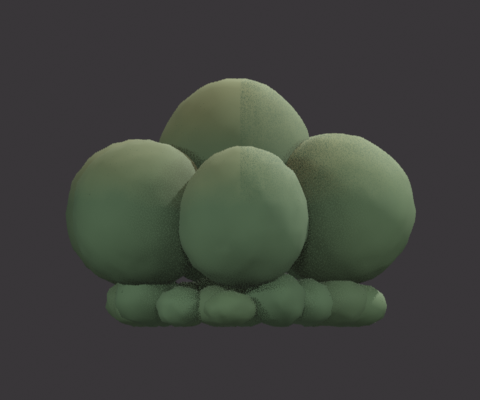
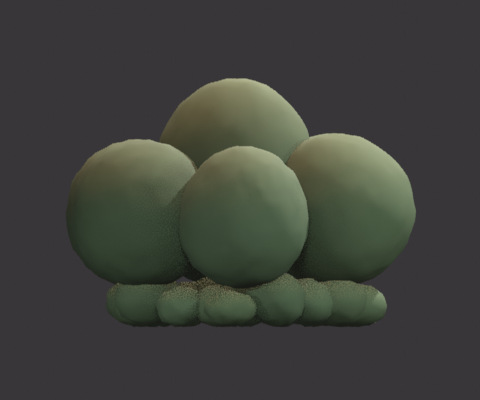
dashboard update 2026-09-15T19:42:38Z

diff --git a/index.html b/index.html
@@ -117,8 +117,8 @@ border:1px solid var(--border);border-radius:8px;padding:8px;font-size:12px;disp
 </style></head>
 <body><div class="wrap">
 <header class="top"><div><h1>🏙 City-Block Asset Pipeline</h1>
-<div class="sub">Live observability &mdash; generated 2026-09-15 12:37 PDT</div></div></header>
-<div class="pipes"><div class="pipe"><div class="name"><span class="dot live"></span>3D modeling pipeline &mdash; RUNNING</div><div class="kv">worker <b>mtick-20260915-1917</b></div><div class="kv">heartbeat <b>Sep 15, 12:37</b></div><div class="kv">working on <b>14-bush</b> &middot; phase <b>judging</b> &middot; rev <b>bs3</b></div><div class="kv">bs3 8/8 rendered + GLB exported; 3 fresh judges re-dispatched</div></div><div class="pipe"><div class="name"><span class="dot live"></span>Schematic pipeline &mdash; RUNNING</div><div class="kv">worker <b>stick-20260915-1919</b></div><div class="kv">heartbeat <b>Sep 15, 12:35</b></div><div class="kv">working on <b>city-center-v1</b> &middot; phase <b>judging</b> &middot; rev <b>48-man-reading-on-bench</b></div><div class="kv">chain 3/8 frozen. chain-right-r3 surgical fix done (bench 990px vs 963, +2.8%). Fresh chain judge dispatched for RIGHT view 4/8.</div></div></div>
+<div class="sub">Live observability &mdash; generated 2026-09-15 12:42 PDT</div></div></header>
+<div class="pipes"><div class="pipe"><div class="name"><span class="dot live"></span>3D modeling pipeline &mdash; RUNNING</div><div class="kv">worker <b>mtick-20260915-1917</b></div><div class="kv">heartbeat <b>Sep 15, 12:41</b></div><div class="kv">working on <b>14-bush</b> &middot; phase <b>judging</b> &middot; rev <b>bs3</b></div><div class="kv">structure PASS 9.25, fidelity PASS 9.25; materials judge pending</div></div><div class="pipe"><div class="name"><span class="dot live"></span>Schematic pipeline &mdash; RUNNING</div><div class="kv">worker <b>stick-20260915-1919</b></div><div class="kv">heartbeat <b>Sep 15, 12:41</b></div><div class="kv">working on <b>city-center-v1</b> &middot; phase <b>judging</b> &middot; rev <b>48-man-reading-on-bench</b></div><div class="kv">chain 3/8 frozen. r3 FAIL (seam dark streak). r4 2nd surgical pass: multi-res seam blend, numeric gate passes (seam smoother than natural variation). Fresh chain judge dispatched for chain-right-r4.</div></div></div>
 <div class="fbbox">
 <button class="btn" id="copyFeedback">📋 Copy feedback</button>
 <span class="count" id="fbCount">0</span>
@@ -127,7 +127,7 @@ Copy them to your clipboard, then paste into chat with Kit &mdash; each note bec
 </div>
 <textarea id="dumpbox" readonly></textarea>
 <h2>Assets <span class="sub">48 entries</span></h2>
-<div id="entries"><a class="entry" href="entries/01-cafe-building.html"><img loading="lazy" src="assets/models/01-cafe-building/renders/bs11/thumb_front.jpg" alt=""><div class="info"><div class="id">01-cafe-building</div><div class="meta">Café Building</div><div class="meta">schematics avg 9.38 · rev bs11 · 01-cafe-building.glb · upd Sep 13, 13:43</div><div class="stages"><span class="stage ok">Schematics ✓</span><span class="stage ok">3D modeling ✓</span><span class="stage ok">Accepted ✓</span></div></div></a><a class="entry" href="entries/02-apartment-building.html"><img loading="lazy" src="assets/models/02-apartment-building/renders/bs15/thumb_front.jpg" alt=""><div class="info"><div class="id">02-apartment-building</div><div class="meta">Apartment Building</div><div class="meta">schematics avg 9.33 · rev bs15 · 02-apartment-building.glb · upd Sep 13, 23:49</div><div class="stages"><span class="stage ok">Schematics ✓</span><span class="stage work">3D modeling · 15 revs (complete)</span><span class="stage work">Felix review pending</span></div></div></a><a class="entry" href="entries/03-flower-shop.html"><img loading="lazy" src="assets/models/03-flower-shop/renders/bs22/thumb_front.jpg" alt=""><div class="info"><div class="id">03-flower-shop</div><div class="meta">Flower Shop</div><div class="meta">schematics avg 9.31 · rev bs22 · 03-flower-shop.glb · upd Sep 14, 04:02</div><div class="stages"><span class="stage ok">Schematics ✓</span><span class="stage work">3D modeling · 22 revs (complete)</span><span class="stage work">Felix review pending</span></div></div></a><a class="entry" href="entries/04-grocery-store.html"><img loading="lazy" src="assets/models/04-grocery-store/renders/bs7/thumb_front.jpg" alt=""><div class="info"><div class="id">04-grocery-store</div><div class="meta">Grocery Store</div><div class="meta">schematics avg 9.37 · rev bs7 · 04-grocery-store.glb · upd Sep 14, 07:21</div><div class="stages"><span class="stage ok">Schematics ✓</span><span class="stage ok">3D modeling ✓</span><span class="stage ok">Accepted ✓</span></div></div></a><a class="entry" href="entries/05-sedan-car.html"><img loading="lazy" src="assets/models/05-sedan-car/renders/bs20/thumb_front.jpg" alt=""><div class="info"><div class="id">05-sedan-car</div><div class="meta">Sedan Car</div><div class="meta">schematics avg 9.34 · rev bs20 · 05-sedan-car.glb · upd Sep 14, 21:15</div><div class="stages"><span class="stage ok">Schematics ✓</span><span class="stage ok">3D modeling ✓</span><span class="stage ok">Accepted ✓</span></div></div></a><a class="entry" href="entries/06-van.html"><img loading="lazy" src="assets/models/06-van/renders/bs4/thumb_front.jpg" alt=""><div class="info"><div class="id">06-van</div><div class="meta">Van</div><div class="meta">schematics avg 9.30 · rev bs4 · 06-van.glb · upd Sep 14, 17:16</div><div class="stages"><span class="stage ok">Schematics ✓</span><span class="stage ok">3D modeling ✓</span><span class="stage ok">Accepted ✓</span></div></div></a><a class="entry" href="entries/07-bicycle.html"><img loading="lazy" src="assets/models/07-bicycle/renders/bs7/thumb_front.jpg" alt=""><div class="info"><div class="id">07-bicycle</div><div class="meta">Bicycle</div><div class="meta">schematics avg 9.33 · rev bs7 · 07-bicycle.glb · upd Sep 14, 20:50</div><div class="stages"><span class="stage ok">Schematics ✓</span><span class="stage ok">3D modeling ✓</span><span class="stage ok">Accepted ✓</span></div></div></a><a class="entry" href="entries/08-kid-with-balloon.html"><img loading="lazy" src="assets/models/08-kid-with-balloon/renders/bs3/thumb_front.jpg" alt=""><div class="info"><div class="id">08-kid-with-balloon</div><div class="meta">Kid with Balloon</div><div class="meta">schematics avg 9.45 · rev bs3 · 08-kid-with-balloon.glb · upd Sep 14, 22:52</div><div class="stages"><span class="stage ok">Schematics ✓</span><span class="stage ok">3D modeling ✓</span><span class="stage ok">Accepted ✓</span></div></div></a><a class="entry" href="entries/09-dog-walker.html"><img loading="lazy" src="assets/models/09-dog-walker/renders/bs7/thumb_front.jpg" alt=""><div class="info"><div class="id">09-dog-walker</div><div class="meta">Dog Walker</div><div class="meta">schematics avg 9.24 · rev bs7 · 09-dog-walker.glb · upd Sep 15, 03:12</div><div class="stages"><span class="stage ok">Schematics ✓</span><span class="stage work">3D modeling · 7 revs (complete)</span><span class="stage work">Felix review pending</span></div></div></a><a class="entry" href="entries/10-cafe-patrons.html"><img loading="lazy" src="assets/models/10-cafe-patrons/renders/bs3/thumb_front.jpg" alt=""><div class="info"><div class="id">10-cafe-patrons</div><div class="meta">Cafe Patrons</div><div class="meta">schematics avg 9.16 · rev bs3 · 10-cafe-patrons.glb · upd Sep 15, 05:06</div><div class="stages"><span class="stage ok">Schematics ✓</span><span class="stage ok">3D modeling ✓</span><span class="stage ok">Accepted ✓</span></div></div></a><a class="entry" href="entries/11-shopper-with-bags.html"><img loading="lazy" src="assets/models/11-shopper-with-bags/renders/bs4/thumb_front.jpg" alt=""><div class="info"><div class="id">11-shopper-with-bags</div><div class="meta">Shopper with Bags</div><div class="meta">schematics avg 9.33 · rev bs4 · 11-shopper-with-bags.glb · upd Sep 15, 08:08</div><div class="stages"><span class="stage ok">Schematics ✓</span><span class="stage ok">3D modeling ✓</span><span class="stage ok">Accepted ✓</span></div></div></a><a class="entry" href="entries/12-big-puffy-tree.html"><img loading="lazy" src="assets/models/12-big-puffy-tree/renders/bs2/thumb_front.jpg" alt=""><div class="info"><div class="id">12-big-puffy-tree</div><div class="meta">Big Puffy Tree</div><div class="meta">schematics avg 9.34 · rev bs2 · 12-big-puffy-tree.glb · upd Sep 15, 09:46</div><div class="stages"><span class="stage ok">Schematics ✓</span><span class="stage ok">3D modeling ✓</span><span class="stage ok">Accepted ✓</span></div></div></a><a class="entry" href="entries/13-small-tree.html"><img loading="lazy" src="assets/models/13-small-tree/renders/bs11/thumb_front.jpg" alt=""><div class="info"><div class="id">13-small-tree</div><div class="meta">Small Tree</div><div class="meta">schematics avg 9.19 · rev bs11 · 13-small-tree.glb · upd Sep 15, 11:24</div><div class="stages"><span class="stage ok">Schematics ✓</span><span class="stage ok">3D modeling ✓</span><span class="stage ok">Accepted ✓</span></div></div></a><a class="entry" href="entries/14-bush.html"><img loading="lazy" src="assets/models/14-bush/renders/bs2/thumb_front.jpg" alt=""><div class="info"><div class="id">14-bush</div><div class="meta">Bush</div><div class="meta">schematics avg 9.28 · rev bs2 · 14-bush.glb · upd Sep 15, 12:37</div><div class="stages"><span class="stage ok">Schematics ✓</span><span class="stage work">3D modeling · 3 revs (judging)</span></div></div></a><a class="entry" href="entries/15-planter-tulips.html"><img loading="lazy" src="assets/schematics/15-planter-tulips/thumb_front.jpg" alt=""><div class="info"><div class="id">15-planter-tulips</div><div class="meta">Planter Tulips</div><div class="meta">schematics avg 9.42 · upd Sep 12, 20:09</div><div class="stages"><span class="stage ok">Schematics ✓</span><span class="stage idle">3D not started</span></div></div></a><a class="entry" href="entries/16-grass-patch.html"><img loading="lazy" src="assets/schematics/16-grass-patch/thumb_front.jpg" alt=""><div class="info"><div class="id">16-grass-patch</div><div class="meta">Grass Patch</div><div class="meta">schematics avg 9.14 · upd Sep 12, 21:07</div><div class="stages"><span class="stage ok">Schematics ✓</span><span class="stage idle">3D not started</span></div></div></a><a class="entry" href="entries/17-street-lamp.html"><img loading="lazy" src="assets/schematics/17-street-lamp/thumb_front.jpg" alt=""><div class="info"><div class="id">17-street-lamp</div><div class="meta">Street Lamp</div><div class="meta">schematics avg 9.45 · upd Sep 12, 19:09</div><div class="stages"><span class="stage ok">Schematics ✓</span><span class="stage idle">3D not started</span></div></div></a><a class="entry" href="entries/18-produce-crates.html"><img loading="lazy" src="assets/schematics/18-produce-crates/thumb_front.jpg" alt=""><div class="info"><div class="id">18-produce-crates</div><div class="meta">Produce Crates</div><div class="meta">schematics avg 9.35 · upd Sep 12, 19:27</div><div class="stages"><span class="stage ok">Schematics ✓</span><span class="stage idle">3D not started</span></div></div></a><a class="entry" href="entries/19-cafe-table-set.html"><img loading="lazy" src="assets/schematics/19-cafe-table-set/thumb_front.jpg" alt=""><div class="info"><div class="id">19-cafe-table-set</div><div class="meta">Café Table Set</div><div class="meta">schematics avg 9.23 · upd Sep 12, 19:43</div><div class="stages"><span class="stage ok">Schematics ✓</span><span class="stage idle">3D not started</span></div></div></a><a class="entry" href="entries/20-intersection.html"><img loading="lazy" src="assets/schematics/20-intersection/thumb_front.jpg" alt=""><div class="info"><div class="id">20-intersection</div><div class="meta">Intersection</div><div class="meta">schematics avg 9.43 · upd Sep 12, 19:12</div><div class="stages"><span class="stage ok">Schematics ✓</span><span class="stage idle">3D not started</span></div></div></a><a class="entry" href="entries/21-cobblestone-road.html"><img loading="lazy" src="assets/schematics/21-cobblestone-road/thumb_front.jpg" alt=""><div class="info"><div class="id">21-cobblestone-road</div><div class="meta">Cobblestone Road</div><div class="meta">schematics avg 9.34 · upd Sep 12, 19:26</div><div class="stages"><span class="stage ok">Schematics ✓</span><span class="stage idle">3D not started</span></div></div></a><a class="entry" href="entries/22-sidewalk-curb.html"><img loading="lazy" src="assets/schematics/22-sidewalk-curb/thumb_front.jpg" alt=""><div class="info"><div class="id">22-sidewalk-curb</div><div class="meta">Sidewalk Curb</div><div class="meta">schematics avg 9.35 · upd Sep 12, 20:36</div><div class="stages"><span class="stage ok">Schematics ✓</span><span class="stage idle">3D not started</span></div></div></a><a class="entry" href="entries/23-plinth-base.html"><img loading="lazy" src="assets/schematics/23-plinth-base/thumb_front.jpg" alt=""><div class="info"><div class="id">23-plinth-base</div><div class="meta">Plinth Base</div><div class="meta">schematics avg 9.36 · upd Sep 12, 20:37</div><div class="stages"><span class="stage ok">Schematics ✓</span><span class="stage idle">3D not started</span></div></div></a><a class="entry" href="entries/24-cobble-straight.html"><img loading="lazy" src="assets/schematics/24-cobble-straight/thumb_front.jpg" alt=""><div class="info"><div class="id">24-cobble-straight</div><div class="meta">Cobble Straight</div><div class="meta">schematics avg 9.51 · upd Sep 12, 22:01</div><div class="stages"><span class="stage ok">Schematics ✓</span><span class="stage idle">3D not started</span></div></div></a><a class="entry" href="entries/25-cobble-corner.html"><img loading="lazy" src="assets/schematics/25-cobble-corner/thumb_front.jpg" alt=""><div class="info"><div class="id">25-cobble-corner</div><div class="meta">Cobble Corner (90° Road Corner)</div><div class="meta">schematics avg 9.56 · upd Sep 12, 21:56</div><div class="stages"><span class="stage ok">Schematics ✓</span><span class="stage idle">3D not started</span></div></div></a><a class="entry" href="entries/26-cobble-t-junction.html"><img loading="lazy" src="assets/schematics/26-cobble-t-junction/thumb_front.jpg" alt=""><div class="info"><div class="id">26-cobble-t-junction</div><div class="meta">Cobble T-Junction</div><div class="meta">schematics avg 9.54 · upd Sep 12, 21:57</div><div class="stages"><span class="stage ok">Schematics ✓</span><span class="stage idle">3D not started</span></div></div></a><a class="entry" href="entries/27-cobble-end.html"><img loading="lazy" src="assets/schematics/27-cobble-end/thumb_front.jpg" alt=""><div class="info"><div class="id">27-cobble-end</div><div class="meta">Cobble End</div><div class="meta">schematics avg 9.44 · upd Sep 12, 21:59</div><div class="stages"><span class="stage ok">Schematics ✓</span><span class="stage idle">3D not started</span></div></div></a><a class="entry" href="entries/28-sidewalk-straight.html"><img loading="lazy" src="assets/schematics/28-sidewalk-straight/thumb_front.jpg" alt=""><div class="info"><div class="id">28-sidewalk-straight</div><div class="meta">Sidewalk Straight</div><div class="meta">schematics avg 9.57 · upd Sep 12, 21:20</div><div class="stages"><span class="stage ok">Schematics ✓</span><span class="stage idle">3D not started</span></div></div></a><a class="entry" href="entries/29-sidewalk-plain.html"><img loading="lazy" src="assets/schematics/29-sidewalk-plain/thumb_front.jpg" alt=""><div class="info"><div class="id">29-sidewalk-plain</div><div class="meta">Sidewalk Plain</div><div class="meta">schematics avg 9.37 · upd Sep 12, 21:17</div><div class="stages"><span class="stage ok">Schematics ✓</span><span class="stage idle">3D not started</span></div></div></a><a class="entry" href="entries/30-business-center-tower.html"><img loading="lazy" src="assets/schematics/30-business-center-tower/thumb_front.jpg" alt=""><div class="info"><div class="id">30-business-center-tower</div><div class="meta">Business Center Tower</div><div class="meta">schematics avg 9.46 · upd Sep 13, 23:28</div><div class="stages"><span class="stage ok">Schematics ✓</span><span class="stage idle">3D not started</span></div></div></a><a class="entry" href="entries/31-office-tower.html"><img loading="lazy" src="assets/schematics/31-office-tower/thumb_front.jpg" alt=""><div class="info"><div class="id">31-office-tower</div><div class="meta">Office Tower</div><div class="meta">schematics avg 9.49 · upd Sep 14, 01:29</div><div class="stages"><span class="stage ok">Schematics ✓</span><span class="stage idle">3D not started</span></div></div></a><a class="entry" href="entries/32-offices-downtown.html"><img loading="lazy" src="assets/schematics/32-offices-downtown/thumb_front.jpg" alt=""><div class="info"><div class="id">32-offices-downtown</div><div class="meta">Offices Downtown</div><div class="meta">schematics avg 9.52 · upd Sep 14, 02:44</div><div class="stages"><span class="stage ok">Schematics ✓</span><span class="stage idle">3D not started</span></div></div></a><a class="entry" href="entries/33-hot-dog-stand.html"><img loading="lazy" src="assets/models/33-hot-dog-stand/renders/hd14/thumb_front.jpg" alt=""><div class="info"><div class="id">33-hot-dog-stand</div><div class="meta">Hot Dog Stand</div><div class="meta">schematics avg 9.47 · rev hd14 · 33-hot-dog-stand.glb · upd Sep 15, 07:11</div><div class="stages"><span class="stage ok">Schematics ✓</span><span class="stage work">3D modeling · 14 revs (complete)</span><span class="stage work">Felix review pending</span></div></div></a><a class="entry" href="entries/34-bus-stop-shelter.html"><img loading="lazy" src="assets/models/34-bus-stop-shelter/renders/bs6/thumb_front.jpg" alt=""><div class="info"><div class="id">34-bus-stop-shelter</div><div class="meta">Bus Stop Shelter</div><div class="meta">schematics avg 9.23 · rev bs6 · 34-bus-stop-shelter-bs6.glb · upd Sep 15, 08:54</div><div class="stages"><span class="stage ok">Schematics ✓</span><span class="stage work">3D modeling · 6 revs (complete)</span><span class="stage work">Felix review pending</span></div></div></a><a class="entry" href="entries/35-traffic-light.html"><img loading="lazy" src="assets/schematics/35-traffic-light/thumb_front.jpg" alt=""><div class="info"><div class="id">35-traffic-light</div><div class="meta">Traffic Light</div><div class="meta">schematics avg 9.63 · upd Sep 14, 14:16</div><div class="stages"><span class="stage ok">Schematics ✓</span><span class="stage idle">3D not started</span></div></div></a><a class="entry" href="entries/36-bus-stop-sign.html"><img loading="lazy" src="assets/schematics/36-bus-stop-sign/thumb_front.jpg" alt=""><div class="info"><div class="id">36-bus-stop-sign</div><div class="meta">Bus Stop Sign</div><div class="meta">schematics avg 9.66 · upd Sep 14, 18:03</div><div class="stages"><span class="stage ok">Schematics ✓</span><span class="stage idle">3D not started</span></div></div></a><a class="entry" href="entries/37-trash-bin.html"><img loading="lazy" src="assets/schematics/37-trash-bin/thumb_front.jpg" alt=""><div class="info"><div class="id">37-trash-bin</div><div class="meta">Trash Bin — Schematic Reference Set</div><div class="meta">schematics avg 9.41 · upd Sep 14, 15:06</div><div class="stages"><span class="stage ok">Schematics ✓</span><span class="stage idle">3D not started</span></div></div></a><a class="entry" href="entries/38-tree-planter-box.html"><img loading="lazy" src="assets/schematics/38-tree-planter-box/thumb_front.jpg" alt=""><div class="info"><div class="id">38-tree-planter-box</div><div class="meta">Tree Planter Box — Schematic Reference Set</div><div class="meta">schematics avg 9.35 · upd Sep 14, 20:27</div><div class="stages"><span class="stage ok">Schematics ✓</span><span class="stage idle">3D not started</span></div></div></a><a class="entry" href="entries/39-city-bus.html"><img loading="lazy" src="assets/schematics/39-city-bus/thumb_front.jpg" alt=""><div class="info"><div class="id">39-city-bus</div><div class="meta">City Bus — Schematic Reference Set</div><div class="meta">schematics avg 9.39 · upd Sep 14, 21:09</div><div class="stages"><span class="stage ok">Schematics ✓</span><span class="stage idle">3D not started</span></div></div></a><a class="entry" href="entries/40-scooter.html"><img loading="lazy" src="assets/schematics/40-scooter/thumb_front.jpg" alt=""><div class="info"><div class="id">40-scooter</div><div class="meta">Scooter — Schematic Reference Set</div><div class="meta">schematics avg 9.41 · upd Sep 14, 22:58</div><div class="stages"><span class="stage ok">Schematics ✓</span><span class="stage idle">3D not started</span></div></div></a><a class="entry" href="entries/41-businessman-with-briefcase.html"><img loading="lazy" src="assets/schematics/41-businessman-with-briefcase/thumb_front.jpg" alt=""><div class="info"><div class="id">41-businessman-with-briefcase</div><div class="meta">Businessman with Briefcase — Schematic Reference Set</div><div class="meta">schematics avg 9.22 · upd Sep 15, 00:02</div><div class="stages"><span class="stage ok">Schematics ✓</span><span class="stage idle">3D not started</span></div></div></a><a class="entry" href="entries/42-kid-with-backpack.html"><img loading="lazy" src="assets/schematics/42-kid-with-backpack/thumb_front.jpg" alt=""><div class="info"><div class="id">42-kid-with-backpack</div><div class="meta">Kid with Backpack — Schematic Reference Set</div><div class="meta">schematics avg 9.27 · upd Sep 15, 03:42</div><div class="stages"><span class="stage ok">Schematics ✓</span><span class="stage idle">3D not started</span></div></div></a><a class="entry" href="entries/43-man-with-stroller.html"><img loading="lazy" src="assets/schematics/43-man-with-stroller/thumb_front.jpg" alt=""><div class="info"><div class="id">43-man-with-stroller</div><div class="meta">Man with Stroller — Schematic Reference Set</div><div class="meta">schematics avg 9.19 · upd Sep 15, 03:35</div><div class="stages"><span class="stage ok">Schematics ✓</span><span class="stage idle">3D not started</span></div></div></a><a class="entry" href="entries/44-cyclist.html"><img loading="lazy" src="assets/schematics/44-cyclist/thumb_front.jpg" alt=""><div class="info"><div class="id">44-cyclist</div><div class="meta">Cyclist — Schematic Reference Set</div><div class="meta">schematics avg 9.41 · upd Sep 15, 09:05</div><div class="stages"><span class="stage ok">Schematics ✓</span><span class="stage idle">3D not started</span></div></div></a><a class="entry" href="entries/45-hot-dog-vendor.html"><img loading="lazy" src="assets/schematics/45-hot-dog-vendor/thumb_front.jpg" alt=""><div class="info"><div class="id">45-hot-dog-vendor</div><div class="meta">Hot Dog Vendor</div><div class="meta">schematics avg 9.37 · upd Sep 15, 07:23</div><div class="stages"><span class="stage ok">Schematics ✓</span><span class="stage idle">3D not started</span></div></div></a><a class="entry" href="entries/46-woman-walking-dog.html"><img loading="lazy" src="assets/schematics/46-woman-walking-dog/thumb_front.jpg" alt=""><div class="info"><div class="id">46-woman-walking-dog</div><div class="meta">Woman Walking Dog</div><div class="meta">schematics avg 9.42 · upd Sep 15, 11:39</div><div class="stages"><span class="stage ok">Schematics ✓</span><span class="stage idle">3D not started</span></div></div></a><a class="entry" href="entries/47-hot-dog-customers.html"><img loading="lazy" src="assets/schematics/47-hot-dog-customers/thumb_front.jpg" alt=""><div class="info"><div class="id">47-hot-dog-customers</div><div class="meta">Hot Dog Customers</div><div class="meta">schematics avg 9.43 · upd Sep 15, 10:37</div><div class="stages"><span class="stage ok">Schematics ✓</span><span class="stage idle">3D not started</span></div></div></a><a class="entry" href="entries/51-chinatown-gate.html"><img loading="lazy" src="assets/schematics/51-chinatown-gate/thumb_front.jpg" alt=""><div class="info"><div class="id">51-chinatown-gate</div><div class="meta">Chinatown Gate</div><div class="meta">schematics avg 9.43 · upd Sep 15, 07:49</div><div class="stages"><span class="stage ok">Schematics ✓</span><span class="stage idle">3D not started</span></div></div></a></div>
+<div id="entries"><a class="entry" href="entries/01-cafe-building.html"><img loading="lazy" src="assets/models/01-cafe-building/renders/bs11/thumb_front.jpg" alt=""><div class="info"><div class="id">01-cafe-building</div><div class="meta">Café Building</div><div class="meta">schematics avg 9.38 · rev bs11 · 01-cafe-building.glb · upd Sep 13, 13:43</div><div class="stages"><span class="stage ok">Schematics ✓</span><span class="stage ok">3D modeling ✓</span><span class="stage ok">Accepted ✓</span></div></div></a><a class="entry" href="entries/02-apartment-building.html"><img loading="lazy" src="assets/models/02-apartment-building/renders/bs15/thumb_front.jpg" alt=""><div class="info"><div class="id">02-apartment-building</div><div class="meta">Apartment Building</div><div class="meta">schematics avg 9.33 · rev bs15 · 02-apartment-building.glb · upd Sep 13, 23:49</div><div class="stages"><span class="stage ok">Schematics ✓</span><span class="stage work">3D modeling · 15 revs (complete)</span><span class="stage work">Felix review pending</span></div></div></a><a class="entry" href="entries/03-flower-shop.html"><img loading="lazy" src="assets/models/03-flower-shop/renders/bs22/thumb_front.jpg" alt=""><div class="info"><div class="id">03-flower-shop</div><div class="meta">Flower Shop</div><div class="meta">schematics avg 9.31 · rev bs22 · 03-flower-shop.glb · upd Sep 14, 04:02</div><div class="stages"><span class="stage ok">Schematics ✓</span><span class="stage work">3D modeling · 22 revs (complete)</span><span class="stage work">Felix review pending</span></div></div></a><a class="entry" href="entries/04-grocery-store.html"><img loading="lazy" src="assets/models/04-grocery-store/renders/bs7/thumb_front.jpg" alt=""><div class="info"><div class="id">04-grocery-store</div><div class="meta">Grocery Store</div><div class="meta">schematics avg 9.37 · rev bs7 · 04-grocery-store.glb · upd Sep 14, 07:21</div><div class="stages"><span class="stage ok">Schematics ✓</span><span class="stage ok">3D modeling ✓</span><span class="stage ok">Accepted ✓</span></div></div></a><a class="entry" href="entries/05-sedan-car.html"><img loading="lazy" src="assets/models/05-sedan-car/renders/bs20/thumb_front.jpg" alt=""><div class="info"><div class="id">05-sedan-car</div><div class="meta">Sedan Car</div><div class="meta">schematics avg 9.34 · rev bs20 · 05-sedan-car.glb · upd Sep 14, 21:15</div><div class="stages"><span class="stage ok">Schematics ✓</span><span class="stage ok">3D modeling ✓</span><span class="stage ok">Accepted ✓</span></div></div></a><a class="entry" href="entries/06-van.html"><img loading="lazy" src="assets/models/06-van/renders/bs4/thumb_front.jpg" alt=""><div class="info"><div class="id">06-van</div><div class="meta">Van</div><div class="meta">schematics avg 9.30 · rev bs4 · 06-van.glb · upd Sep 14, 17:16</div><div class="stages"><span class="stage ok">Schematics ✓</span><span class="stage ok">3D modeling ✓</span><span class="stage ok">Accepted ✓</span></div></div></a><a class="entry" href="entries/07-bicycle.html"><img loading="lazy" src="assets/models/07-bicycle/renders/bs7/thumb_front.jpg" alt=""><div class="info"><div class="id">07-bicycle</div><div class="meta">Bicycle</div><div class="meta">schematics avg 9.33 · rev bs7 · 07-bicycle.glb · upd Sep 14, 20:50</div><div class="stages"><span class="stage ok">Schematics ✓</span><span class="stage ok">3D modeling ✓</span><span class="stage ok">Accepted ✓</span></div></div></a><a class="entry" href="entries/08-kid-with-balloon.html"><img loading="lazy" src="assets/models/08-kid-with-balloon/renders/bs3/thumb_front.jpg" alt=""><div class="info"><div class="id">08-kid-with-balloon</div><div class="meta">Kid with Balloon</div><div class="meta">schematics avg 9.45 · rev bs3 · 08-kid-with-balloon.glb · upd Sep 14, 22:52</div><div class="stages"><span class="stage ok">Schematics ✓</span><span class="stage ok">3D modeling ✓</span><span class="stage ok">Accepted ✓</span></div></div></a><a class="entry" href="entries/09-dog-walker.html"><img loading="lazy" src="assets/models/09-dog-walker/renders/bs7/thumb_front.jpg" alt=""><div class="info"><div class="id">09-dog-walker</div><div class="meta">Dog Walker</div><div class="meta">schematics avg 9.24 · rev bs7 · 09-dog-walker.glb · upd Sep 15, 03:12</div><div class="stages"><span class="stage ok">Schematics ✓</span><span class="stage work">3D modeling · 7 revs (complete)</span><span class="stage work">Felix review pending</span></div></div></a><a class="entry" href="entries/10-cafe-patrons.html"><img loading="lazy" src="assets/models/10-cafe-patrons/renders/bs3/thumb_front.jpg" alt=""><div class="info"><div class="id">10-cafe-patrons</div><div class="meta">Cafe Patrons</div><div class="meta">schematics avg 9.16 · rev bs3 · 10-cafe-patrons.glb · upd Sep 15, 05:06</div><div class="stages"><span class="stage ok">Schematics ✓</span><span class="stage ok">3D modeling ✓</span><span class="stage ok">Accepted ✓</span></div></div></a><a class="entry" href="entries/11-shopper-with-bags.html"><img loading="lazy" src="assets/models/11-shopper-with-bags/renders/bs4/thumb_front.jpg" alt=""><div class="info"><div class="id">11-shopper-with-bags</div><div class="meta">Shopper with Bags</div><div class="meta">schematics avg 9.33 · rev bs4 · 11-shopper-with-bags.glb · upd Sep 15, 08:08</div><div class="stages"><span class="stage ok">Schematics ✓</span><span class="stage ok">3D modeling ✓</span><span class="stage ok">Accepted ✓</span></div></div></a><a class="entry" href="entries/12-big-puffy-tree.html"><img loading="lazy" src="assets/models/12-big-puffy-tree/renders/bs2/thumb_front.jpg" alt=""><div class="info"><div class="id">12-big-puffy-tree</div><div class="meta">Big Puffy Tree</div><div class="meta">schematics avg 9.34 · rev bs2 · 12-big-puffy-tree.glb · upd Sep 15, 09:46</div><div class="stages"><span class="stage ok">Schematics ✓</span><span class="stage ok">3D modeling ✓</span><span class="stage ok">Accepted ✓</span></div></div></a><a class="entry" href="entries/13-small-tree.html"><img loading="lazy" src="assets/models/13-small-tree/renders/bs11/thumb_front.jpg" alt=""><div class="info"><div class="id">13-small-tree</div><div class="meta">Small Tree</div><div class="meta">schematics avg 9.19 · rev bs11 · 13-small-tree.glb · upd Sep 15, 11:24</div><div class="stages"><span class="stage ok">Schematics ✓</span><span class="stage ok">3D modeling ✓</span><span class="stage ok">Accepted ✓</span></div></div></a><a class="entry" href="entries/14-bush.html"><img loading="lazy" src="assets/models/14-bush/renders/bs2/thumb_front.jpg" alt=""><div class="info"><div class="id">14-bush</div><div class="meta">Bush</div><div class="meta">schematics avg 9.28 · rev bs2 · 14-bush.glb · upd Sep 15, 12:41</div><div class="stages"><span class="stage ok">Schematics ✓</span><span class="stage work">3D modeling · 3 revs (judging)</span></div></div></a><a class="entry" href="entries/15-planter-tulips.html"><img loading="lazy" src="assets/schematics/15-planter-tulips/thumb_front.jpg" alt=""><div class="info"><div class="id">15-planter-tulips</div><div class="meta">Planter Tulips</div><div class="meta">schematics avg 9.42 · upd Sep 12, 20:09</div><div class="stages"><span class="stage ok">Schematics ✓</span><span class="stage idle">3D not started</span></div></div></a><a class="entry" href="entries/16-grass-patch.html"><img loading="lazy" src="assets/schematics/16-grass-patch/thumb_front.jpg" alt=""><div class="info"><div class="id">16-grass-patch</div><div class="meta">Grass Patch</div><div class="meta">schematics avg 9.14 · upd Sep 12, 21:07</div><div class="stages"><span class="stage ok">Schematics ✓</span><span class="stage idle">3D not started</span></div></div></a><a class="entry" href="entries/17-street-lamp.html"><img loading="lazy" src="assets/schematics/17-street-lamp/thumb_front.jpg" alt=""><div class="info"><div class="id">17-street-lamp</div><div class="meta">Street Lamp</div><div class="meta">schematics avg 9.45 · upd Sep 12, 19:09</div><div class="stages"><span class="stage ok">Schematics ✓</span><span class="stage idle">3D not started</span></div></div></a><a class="entry" href="entries/18-produce-crates.html"><img loading="lazy" src="assets/schematics/18-produce-crates/thumb_front.jpg" alt=""><div class="info"><div class="id">18-produce-crates</div><div class="meta">Produce Crates</div><div class="meta">schematics avg 9.35 · upd Sep 12, 19:27</div><div class="stages"><span class="stage ok">Schematics ✓</span><span class="stage idle">3D not started</span></div></div></a><a class="entry" href="entries/19-cafe-table-set.html"><img loading="lazy" src="assets/schematics/19-cafe-table-set/thumb_front.jpg" alt=""><div class="info"><div class="id">19-cafe-table-set</div><div class="meta">Café Table Set</div><div class="meta">schematics avg 9.23 · upd Sep 12, 19:43</div><div class="stages"><span class="stage ok">Schematics ✓</span><span class="stage idle">3D not started</span></div></div></a><a class="entry" href="entries/20-intersection.html"><img loading="lazy" src="assets/schematics/20-intersection/thumb_front.jpg" alt=""><div class="info"><div class="id">20-intersection</div><div class="meta">Intersection</div><div class="meta">schematics avg 9.43 · upd Sep 12, 19:12</div><div class="stages"><span class="stage ok">Schematics ✓</span><span class="stage idle">3D not started</span></div></div></a><a class="entry" href="entries/21-cobblestone-road.html"><img loading="lazy" src="assets/schematics/21-cobblestone-road/thumb_front.jpg" alt=""><div class="info"><div class="id">21-cobblestone-road</div><div class="meta">Cobblestone Road</div><div class="meta">schematics avg 9.34 · upd Sep 12, 19:26</div><div class="stages"><span class="stage ok">Schematics ✓</span><span class="stage idle">3D not started</span></div></div></a><a class="entry" href="entries/22-sidewalk-curb.html"><img loading="lazy" src="assets/schematics/22-sidewalk-curb/thumb_front.jpg" alt=""><div class="info"><div class="id">22-sidewalk-curb</div><div class="meta">Sidewalk Curb</div><div class="meta">schematics avg 9.35 · upd Sep 12, 20:36</div><div class="stages"><span class="stage ok">Schematics ✓</span><span class="stage idle">3D not started</span></div></div></a><a class="entry" href="entries/23-plinth-base.html"><img loading="lazy" src="assets/schematics/23-plinth-base/thumb_front.jpg" alt=""><div class="info"><div class="id">23-plinth-base</div><div class="meta">Plinth Base</div><div class="meta">schematics avg 9.36 · upd Sep 12, 20:37</div><div class="stages"><span class="stage ok">Schematics ✓</span><span class="stage idle">3D not started</span></div></div></a><a class="entry" href="entries/24-cobble-straight.html"><img loading="lazy" src="assets/schematics/24-cobble-straight/thumb_front.jpg" alt=""><div class="info"><div class="id">24-cobble-straight</div><div class="meta">Cobble Straight</div><div class="meta">schematics avg 9.51 · upd Sep 12, 22:01</div><div class="stages"><span class="stage ok">Schematics ✓</span><span class="stage idle">3D not started</span></div></div></a><a class="entry" href="entries/25-cobble-corner.html"><img loading="lazy" src="assets/schematics/25-cobble-corner/thumb_front.jpg" alt=""><div class="info"><div class="id">25-cobble-corner</div><div class="meta">Cobble Corner (90° Road Corner)</div><div class="meta">schematics avg 9.56 · upd Sep 12, 21:56</div><div class="stages"><span class="stage ok">Schematics ✓</span><span class="stage idle">3D not started</span></div></div></a><a class="entry" href="entries/26-cobble-t-junction.html"><img loading="lazy" src="assets/schematics/26-cobble-t-junction/thumb_front.jpg" alt=""><div class="info"><div class="id">26-cobble-t-junction</div><div class="meta">Cobble T-Junction</div><div class="meta">schematics avg 9.54 · upd Sep 12, 21:57</div><div class="stages"><span class="stage ok">Schematics ✓</span><span class="stage idle">3D not started</span></div></div></a><a class="entry" href="entries/27-cobble-end.html"><img loading="lazy" src="assets/schematics/27-cobble-end/thumb_front.jpg" alt=""><div class="info"><div class="id">27-cobble-end</div><div class="meta">Cobble End</div><div class="meta">schematics avg 9.44 · upd Sep 12, 21:59</div><div class="stages"><span class="stage ok">Schematics ✓</span><span class="stage idle">3D not started</span></div></div></a><a class="entry" href="entries/28-sidewalk-straight.html"><img loading="lazy" src="assets/schematics/28-sidewalk-straight/thumb_front.jpg" alt=""><div class="info"><div class="id">28-sidewalk-straight</div><div class="meta">Sidewalk Straight</div><div class="meta">schematics avg 9.57 · upd Sep 12, 21:20</div><div class="stages"><span class="stage ok">Schematics ✓</span><span class="stage idle">3D not started</span></div></div></a><a class="entry" href="entries/29-sidewalk-plain.html"><img loading="lazy" src="assets/schematics/29-sidewalk-plain/thumb_front.jpg" alt=""><div class="info"><div class="id">29-sidewalk-plain</div><div class="meta">Sidewalk Plain</div><div class="meta">schematics avg 9.37 · upd Sep 12, 21:17</div><div class="stages"><span class="stage ok">Schematics ✓</span><span class="stage idle">3D not started</span></div></div></a><a class="entry" href="entries/30-business-center-tower.html"><img loading="lazy" src="assets/schematics/30-business-center-tower/thumb_front.jpg" alt=""><div class="info"><div class="id">30-business-center-tower</div><div class="meta">Business Center Tower</div><div class="meta">schematics avg 9.46 · upd Sep 13, 23:28</div><div class="stages"><span class="stage ok">Schematics ✓</span><span class="stage idle">3D not started</span></div></div></a><a class="entry" href="entries/31-office-tower.html"><img loading="lazy" src="assets/schematics/31-office-tower/thumb_front.jpg" alt=""><div class="info"><div class="id">31-office-tower</div><div class="meta">Office Tower</div><div class="meta">schematics avg 9.49 · upd Sep 14, 01:29</div><div class="stages"><span class="stage ok">Schematics ✓</span><span class="stage idle">3D not started</span></div></div></a><a class="entry" href="entries/32-offices-downtown.html"><img loading="lazy" src="assets/schematics/32-offices-downtown/thumb_front.jpg" alt=""><div class="info"><div class="id">32-offices-downtown</div><div class="meta">Offices Downtown</div><div class="meta">schematics avg 9.52 · upd Sep 14, 02:44</div><div class="stages"><span class="stage ok">Schematics ✓</span><span class="stage idle">3D not started</span></div></div></a><a class="entry" href="entries/33-hot-dog-stand.html"><img loading="lazy" src="assets/models/33-hot-dog-stand/renders/hd14/thumb_front.jpg" alt=""><div class="info"><div class="id">33-hot-dog-stand</div><div class="meta">Hot Dog Stand</div><div class="meta">schematics avg 9.47 · rev hd14 · 33-hot-dog-stand.glb · upd Sep 15, 07:11</div><div class="stages"><span class="stage ok">Schematics ✓</span><span class="stage work">3D modeling · 14 revs (complete)</span><span class="stage work">Felix review pending</span></div></div></a><a class="entry" href="entries/34-bus-stop-shelter.html"><img loading="lazy" src="assets/models/34-bus-stop-shelter/renders/bs6/thumb_front.jpg" alt=""><div class="info"><div class="id">34-bus-stop-shelter</div><div class="meta">Bus Stop Shelter</div><div class="meta">schematics avg 9.23 · rev bs6 · 34-bus-stop-shelter-bs6.glb · upd Sep 15, 08:54</div><div class="stages"><span class="stage ok">Schematics ✓</span><span class="stage work">3D modeling · 6 revs (complete)</span><span class="stage work">Felix review pending</span></div></div></a><a class="entry" href="entries/35-traffic-light.html"><img loading="lazy" src="assets/schematics/35-traffic-light/thumb_front.jpg" alt=""><div class="info"><div class="id">35-traffic-light</div><div class="meta">Traffic Light</div><div class="meta">schematics avg 9.63 · upd Sep 14, 14:16</div><div class="stages"><span class="stage ok">Schematics ✓</span><span class="stage idle">3D not started</span></div></div></a><a class="entry" href="entries/36-bus-stop-sign.html"><img loading="lazy" src="assets/schematics/36-bus-stop-sign/thumb_front.jpg" alt=""><div class="info"><div class="id">36-bus-stop-sign</div><div class="meta">Bus Stop Sign</div><div class="meta">schematics avg 9.66 · upd Sep 14, 18:03</div><div class="stages"><span class="stage ok">Schematics ✓</span><span class="stage idle">3D not started</span></div></div></a><a class="entry" href="entries/37-trash-bin.html"><img loading="lazy" src="assets/schematics/37-trash-bin/thumb_front.jpg" alt=""><div class="info"><div class="id">37-trash-bin</div><div class="meta">Trash Bin — Schematic Reference Set</div><div class="meta">schematics avg 9.41 · upd Sep 14, 15:06</div><div class="stages"><span class="stage ok">Schematics ✓</span><span class="stage idle">3D not started</span></div></div></a><a class="entry" href="entries/38-tree-planter-box.html"><img loading="lazy" src="assets/schematics/38-tree-planter-box/thumb_front.jpg" alt=""><div class="info"><div class="id">38-tree-planter-box</div><div class="meta">Tree Planter Box — Schematic Reference Set</div><div class="meta">schematics avg 9.35 · upd Sep 14, 20:27</div><div class="stages"><span class="stage ok">Schematics ✓</span><span class="stage idle">3D not started</span></div></div></a><a class="entry" href="entries/39-city-bus.html"><img loading="lazy" src="assets/schematics/39-city-bus/thumb_front.jpg" alt=""><div class="info"><div class="id">39-city-bus</div><div class="meta">City Bus — Schematic Reference Set</div><div class="meta">schematics avg 9.39 · upd Sep 14, 21:09</div><div class="stages"><span class="stage ok">Schematics ✓</span><span class="stage idle">3D not started</span></div></div></a><a class="entry" href="entries/40-scooter.html"><img loading="lazy" src="assets/schematics/40-scooter/thumb_front.jpg" alt=""><div class="info"><div class="id">40-scooter</div><div class="meta">Scooter — Schematic Reference Set</div><div class="meta">schematics avg 9.41 · upd Sep 14, 22:58</div><div class="stages"><span class="stage ok">Schematics ✓</span><span class="stage idle">3D not started</span></div></div></a><a class="entry" href="entries/41-businessman-with-briefcase.html"><img loading="lazy" src="assets/schematics/41-businessman-with-briefcase/thumb_front.jpg" alt=""><div class="info"><div class="id">41-businessman-with-briefcase</div><div class="meta">Businessman with Briefcase — Schematic Reference Set</div><div class="meta">schematics avg 9.22 · upd Sep 15, 00:02</div><div class="stages"><span class="stage ok">Schematics ✓</span><span class="stage idle">3D not started</span></div></div></a><a class="entry" href="entries/42-kid-with-backpack.html"><img loading="lazy" src="assets/schematics/42-kid-with-backpack/thumb_front.jpg" alt=""><div class="info"><div class="id">42-kid-with-backpack</div><div class="meta">Kid with Backpack — Schematic Reference Set</div><div class="meta">schematics avg 9.27 · upd Sep 15, 03:42</div><div class="stages"><span class="stage ok">Schematics ✓</span><span class="stage idle">3D not started</span></div></div></a><a class="entry" href="entries/43-man-with-stroller.html"><img loading="lazy" src="assets/schematics/43-man-with-stroller/thumb_front.jpg" alt=""><div class="info"><div class="id">43-man-with-stroller</div><div class="meta">Man with Stroller — Schematic Reference Set</div><div class="meta">schematics avg 9.19 · upd Sep 15, 03:35</div><div class="stages"><span class="stage ok">Schematics ✓</span><span class="stage idle">3D not started</span></div></div></a><a class="entry" href="entries/44-cyclist.html"><img loading="lazy" src="assets/schematics/44-cyclist/thumb_front.jpg" alt=""><div class="info"><div class="id">44-cyclist</div><div class="meta">Cyclist — Schematic Reference Set</div><div class="meta">schematics avg 9.41 · upd Sep 15, 09:05</div><div class="stages"><span class="stage ok">Schematics ✓</span><span class="stage idle">3D not started</span></div></div></a><a class="entry" href="entries/45-hot-dog-vendor.html"><img loading="lazy" src="assets/schematics/45-hot-dog-vendor/thumb_front.jpg" alt=""><div class="info"><div class="id">45-hot-dog-vendor</div><div class="meta">Hot Dog Vendor</div><div class="meta">schematics avg 9.37 · upd Sep 15, 07:23</div><div class="stages"><span class="stage ok">Schematics ✓</span><span class="stage idle">3D not started</span></div></div></a><a class="entry" href="entries/46-woman-walking-dog.html"><img loading="lazy" src="assets/schematics/46-woman-walking-dog/thumb_front.jpg" alt=""><div class="info"><div class="id">46-woman-walking-dog</div><div class="meta">Woman Walking Dog</div><div class="meta">schematics avg 9.42 · upd Sep 15, 11:39</div><div class="stages"><span class="stage ok">Schematics ✓</span><span class="stage idle">3D not started</span></div></div></a><a class="entry" href="entries/47-hot-dog-customers.html"><img loading="lazy" src="assets/schematics/47-hot-dog-customers/thumb_front.jpg" alt=""><div class="info"><div class="id">47-hot-dog-customers</div><div class="meta">Hot Dog Customers</div><div class="meta">schematics avg 9.43 · upd Sep 15, 10:37</div><div class="stages"><span class="stage ok">Schematics ✓</span><span class="stage idle">3D not started</span></div></div></a><a class="entry" href="entries/51-chinatown-gate.html"><img loading="lazy" src="assets/schematics/51-chinatown-gate/thumb_front.jpg" alt=""><div class="info"><div class="id">51-chinatown-gate</div><div class="meta">Chinatown Gate</div><div class="meta">schematics avg 9.43 · upd Sep 15, 07:49</div><div class="stages"><span class="stage ok">Schematics ✓</span><span class="stage idle">3D not started</span></div></div></a></div>
 <p class="note">All times Pacific. Click an entry for the 3D viewer and side-by-side review mode.</p>
 </div>
 <script>

diff --git a/entries/14-bush.html b/entries/14-bush.html
@@ -120,7 +120,7 @@ border:1px solid var(--border);border-radius:8px;padding:8px;font-size:12px;disp
 <h1>14-bush</h1><div class="sub">Bush</div>
 <div class="stages" style="margin:10px 0"><span class="stage ok">Schematics ✓</span><span class="stage work">3D modeling · 3 revs (judging)</span></div>
 
-<div class="kv">last updated <b>2026-09-15 12:37 PDT</b> &middot; <span id="notesCount">0</span> review notes on this asset</div>
+<div class="kv">last updated <b>2026-09-15 12:41 PDT</b> &middot; <span id="notesCount">0</span> review notes on this asset</div>
 <div class="outstanding clear"><div class="otitle">Outstanding feedback (0)</div><div class="oclear">None &mdash; every flagged defect is resolved. If the model is still in progress, it is awaiting judge verdicts, not fixes.</div></div>
 <h2>3D viewer &mdash; 14-bush.glb (rev bs3)</h2><div class="kv" style="margin-top:6px">Renders above are <b>bs2</b>; the 3D viewer loads the last exported GLB (<b>bs3</b>).</div><div id="viewer"></div><div class="kv" id="vstat">loading…</div><script>const GLB_URL="../assets/models/14-bush/14-bush.glb";</script>
 <script type="importmap">
